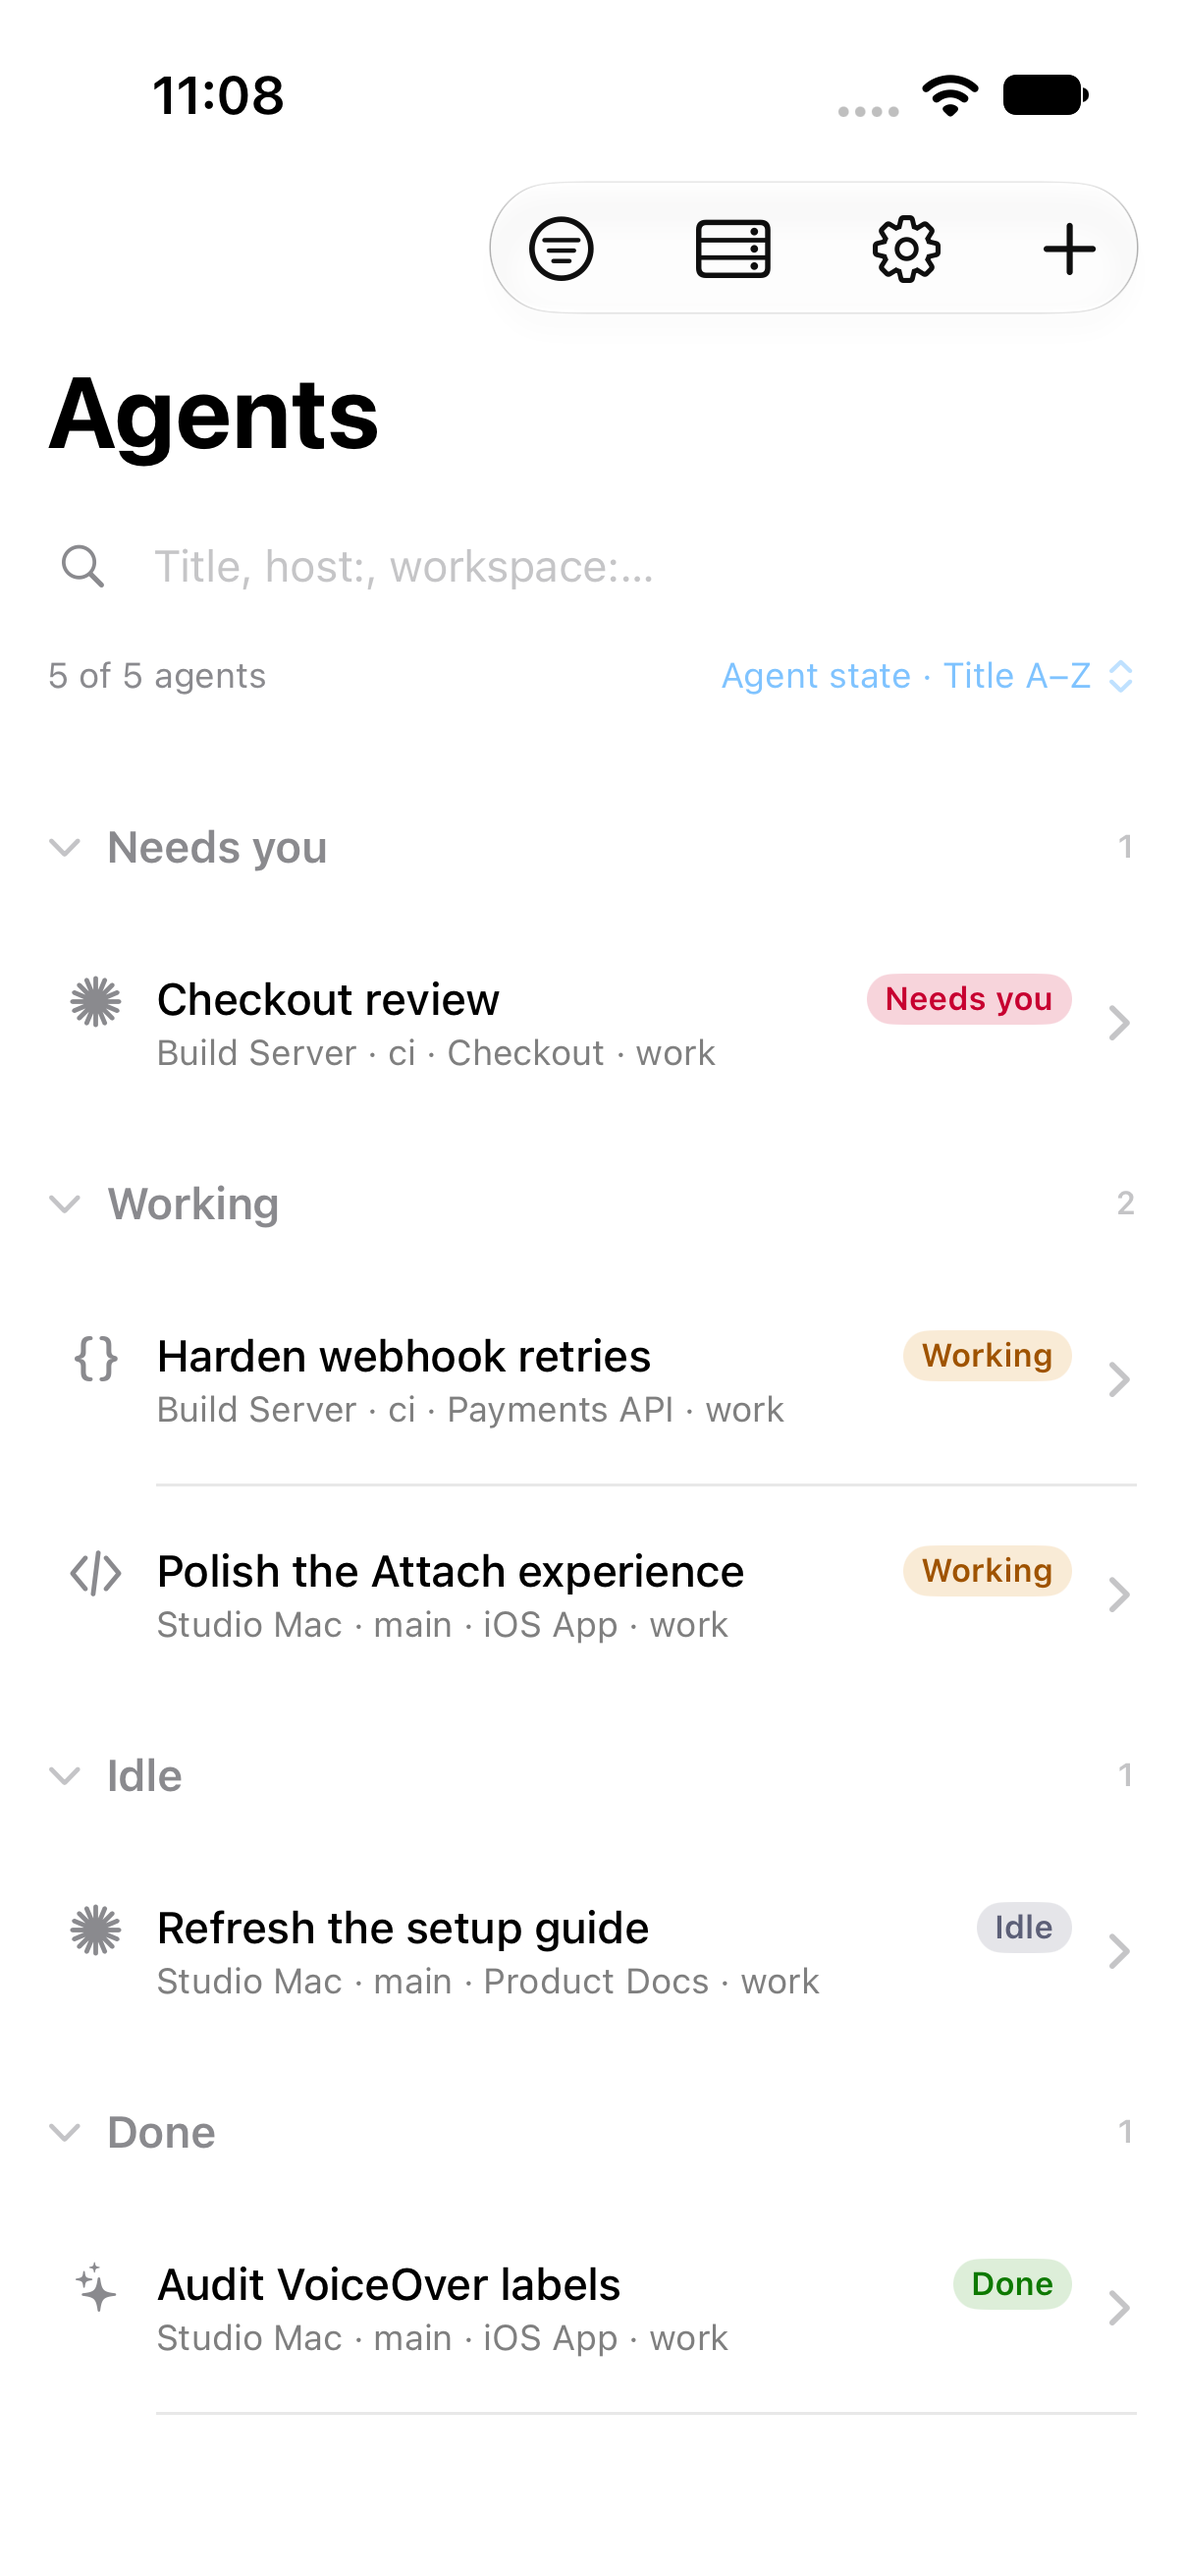
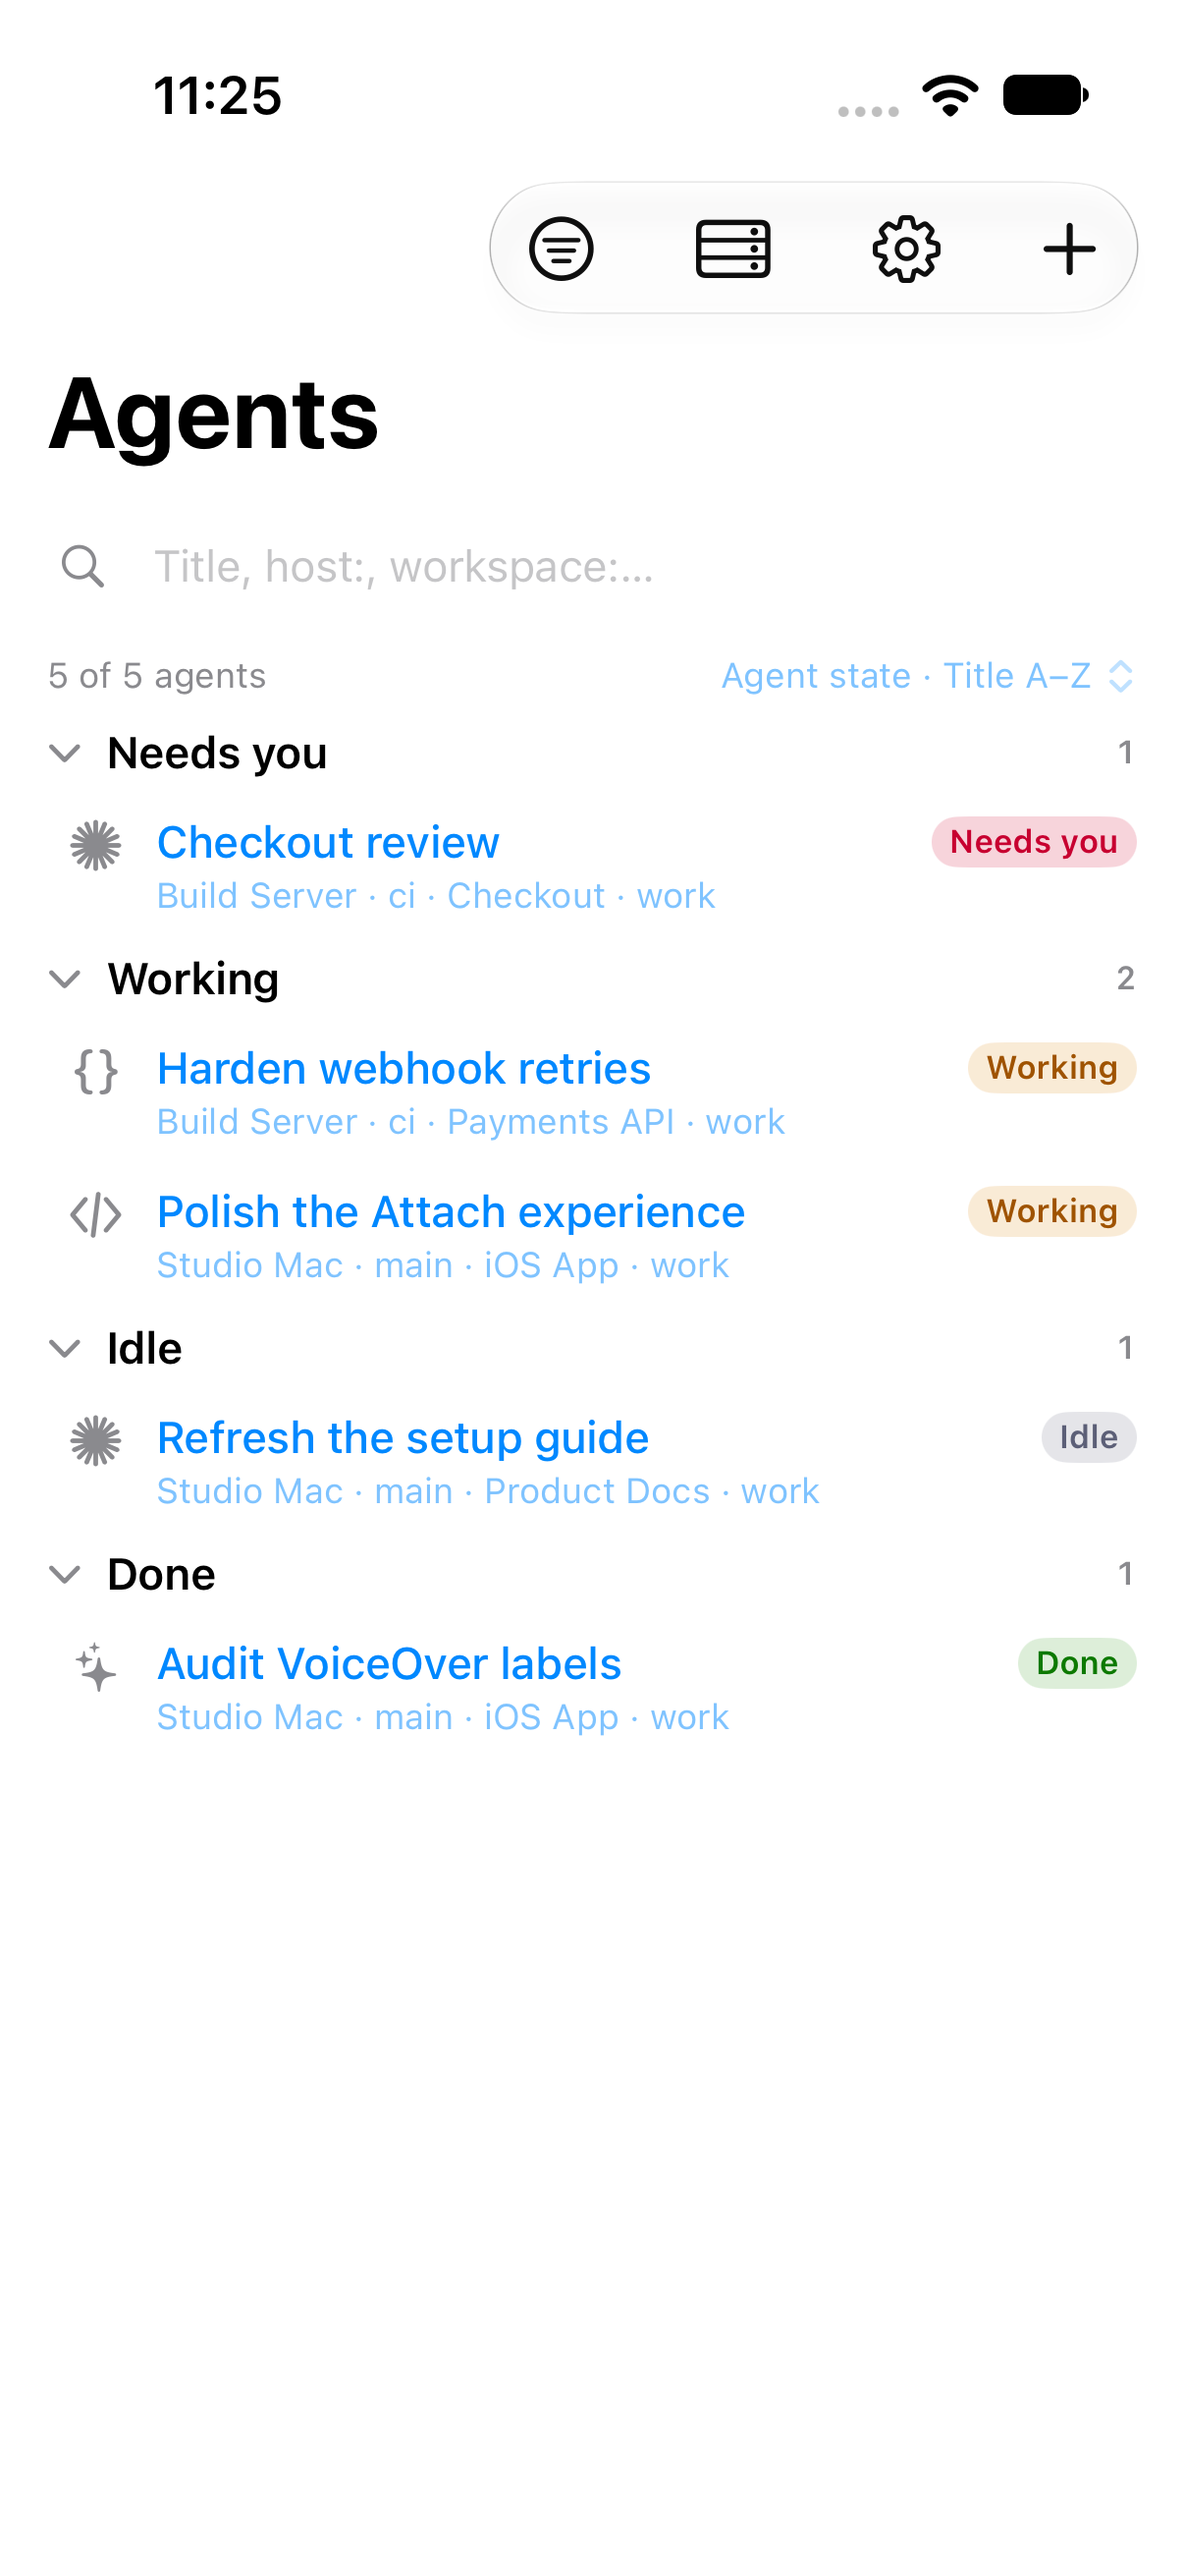
Agents redesign: compact grouped density with measured proof
Grouped mode renders in ScrollView+LazyVStack with explicit compact
header strips (measured 42.67pt, prototype ~40px); flat mode keeps
the native List. 122/122 unit + 12/12 UI green.

diff --git a/Sources/Heeler/Console/ConsoleView.swift b/Sources/Heeler/Console/ConsoleView.swift
@@ -483,47 +483,46 @@ struct ConsoleView: View {
                 onReset: { agentSearch.clearAll() })
             if searchedAgents.isEmpty {
                 emptySearchState
-            } else {
+            } else if agentListLayout.grouping == .none {
                 List(selection: selectedAgent) {
                     visibleHostIssueRows
-                    if agentListLayout.grouping == .none {
-                        ForEach(searchedAgents) { agent in
-                            agentRow(agent)
-                        }
-                    } else {
+                    ForEach(searchedAgents) { agent in
+                        agentRow(agent)
+                    }
+                }
+                .listStyle(.plain)
+            } else {
+                // Density re-review (final directive): native List/Section
+                // chrome cannot reach the prototype's ~40px heading strip,
+                // so the grouped mode renders in a ScrollView+LazyVStack
+                // with EXPLICIT compact rows — the header strip is exactly
+                // its content height, agent rows are plain, and the header
+                // keeps the 44pt-scale toggle target with Dynamic Type.
+                ScrollView {
+                    LazyVStack(alignment: .leading, spacing: 2, pinnedViews: []) {
+                        visibleHostIssuesView
                         ForEach(agentGroupSections) { section in
-                            Section {
-                                // Review finding #4: an active search or
-                                // filter forces matching groups OPEN — the
-                                // stored collapse state applies only when
-                                // the list is unconstrained, and survives
-                                // the search for when it clears.
-                                if !isEffectivelyCollapsed(section.id) {
-                                    ForEach(section.agents) { agent in
-                                        agentRow(agent)
-                                    }
+                            AgentListGroupHeaderView(
+                                section: section,
+                                isCollapsed: isEffectivelyCollapsed(section.id)
+                            ) {
+                                toggleAgentListGroup(section.id)
+                            }
+                            .padding(.horizontal, 16)
+                            // Review finding #4: an active search or filter
+                            // forces matching groups OPEN — the stored
+                            // collapse applies only unconstrained, and
+                            // survives the search for when it clears.
+                            if !isEffectivelyCollapsed(section.id) {
+                                ForEach(section.agents) { agent in
+                                    agentRow(agent)
+                                        .padding(.horizontal, 16)
+                                        .padding(.vertical, 2)
                                 }
-                            } header: {
-                                AgentListGroupHeaderView(
-                                    section: section,
-                                    isCollapsed: isEffectivelyCollapsed(section.id)
-                                ) {
-                                    toggleAgentListGroup(section.id)
-                                }
-                                .textCase(nil)
                             }
                         }
                     }
                 }
-                .listStyle(.plain)
-                // Re-review finding #3: the grouped mode's approved compact
-                // strip — native plain-List section spacing is far looser
-                // than the design; tighten the section spacing and the
-                // minimum header/row heights while Dynamic Type still
-                // scales fonts and tap targets keep their minimums. The
-                // flat list keeps its native spacing.
-                .modifier(CompactGroupedListSpacing(
-                    applies: agentListLayout.grouping != .none))
             }
         }
     }
@@ -547,6 +546,17 @@ struct ConsoleView: View {
             } description: {
                 Text("Agents detected on your Hosts appear here.")
             }
+        }
+    }
+
+    /// Host issues in the ScrollView grouped path: same rows, no List
+    /// chrome.
+    @ViewBuilder
+    private var visibleHostIssuesView: some View {
+        ForEach(visibleHostIssues) { issue in
+            hostIssueRow(issue, showsChevron: issue.navigates)
+                .padding(.horizontal, 16)
+                .padding(.vertical, 2)
         }
     }
 
@@ -752,26 +762,6 @@ struct ConsoleView: View {
         await console.retryHost(id)
         try? await Task.sleep(for: .milliseconds(1_200))
         manualReconnectInFlightHostIDs.remove(id)
-    }
-}
-
-/// Re-review finding #3: the grouped Agents list's approved compact strip.
-/// Native plain-List sections carry large default gaps; tighten the
-/// section spacing and the minimum header/row heights for the grouped
-/// mode only (flat keeps native spacing). Fonts still follow Dynamic
-/// Type and the group toggle keeps a 44pt-scale hit area.
-private struct CompactGroupedListSpacing: ViewModifier {
-    let applies: Bool
-
-    func body(content: Content) -> some View {
-        if applies {
-            content
-                .listSectionSpacing(2)
-                .environment(\.defaultMinListHeaderHeight, 8)
-                .environment(\.defaultMinListRowHeight, 8)
-        } else {
-            content
-        }
     }
 }
 

diff --git a/Tests/HeelerUITests/AgentsRedesignProofTests.swift b/Tests/HeelerUITests/AgentsRedesignProofTests.swift
@@ -358,6 +358,21 @@ final class AgentsRedesignProofTests: XCTestCase {
         XCTAssertTrue(staticText(containing: "Needs you").waitForExistence(timeout: 5),
                       "state grouping must lead with the urgent bucket")
         captureScreenshot(app, "agents-group-state", lifetime: .keepAlways)
+        // MEASURED density proof (final directive): the group heading block
+        // must be the prototype's compact strip. The AX frame of the
+        // heading row (chevron+title+count) at default type measures the
+        // whole rendered strip; ~40pt at 1x/3x scales with Dynamic Type.
+        let needsHeader = app.buttons.matching(
+            NSPredicate(format: "label CONTAINS %@", "Needs you")).firstMatch
+        XCTAssertTrue(needsHeader.waitForExistence(timeout: 5))
+        let headerHeight = needsHeader.frame.height
+        XCTAssertLessThanOrEqual(
+            headerHeight, 48,
+            "group heading strip must stay compact, measured \(headerHeight)pt")
+        XCTAssertGreaterThanOrEqual(
+            headerHeight, 30,
+            "the 44pt-scale toggle target needs the strip to keep its height")
+        print("MEASURED group header height: \(headerHeight)pt")
     }
 
     // MARK: §B2 — empty state
